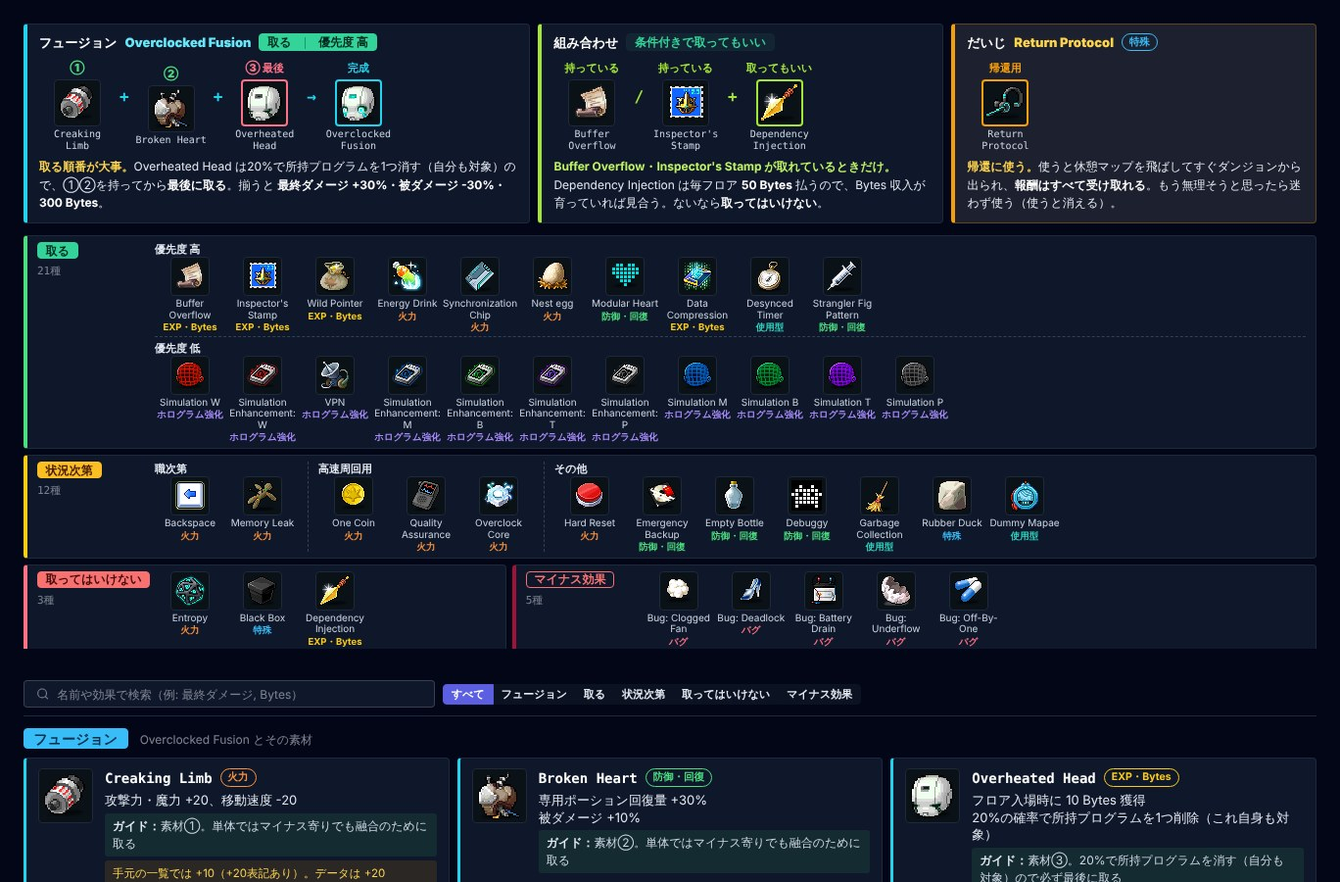
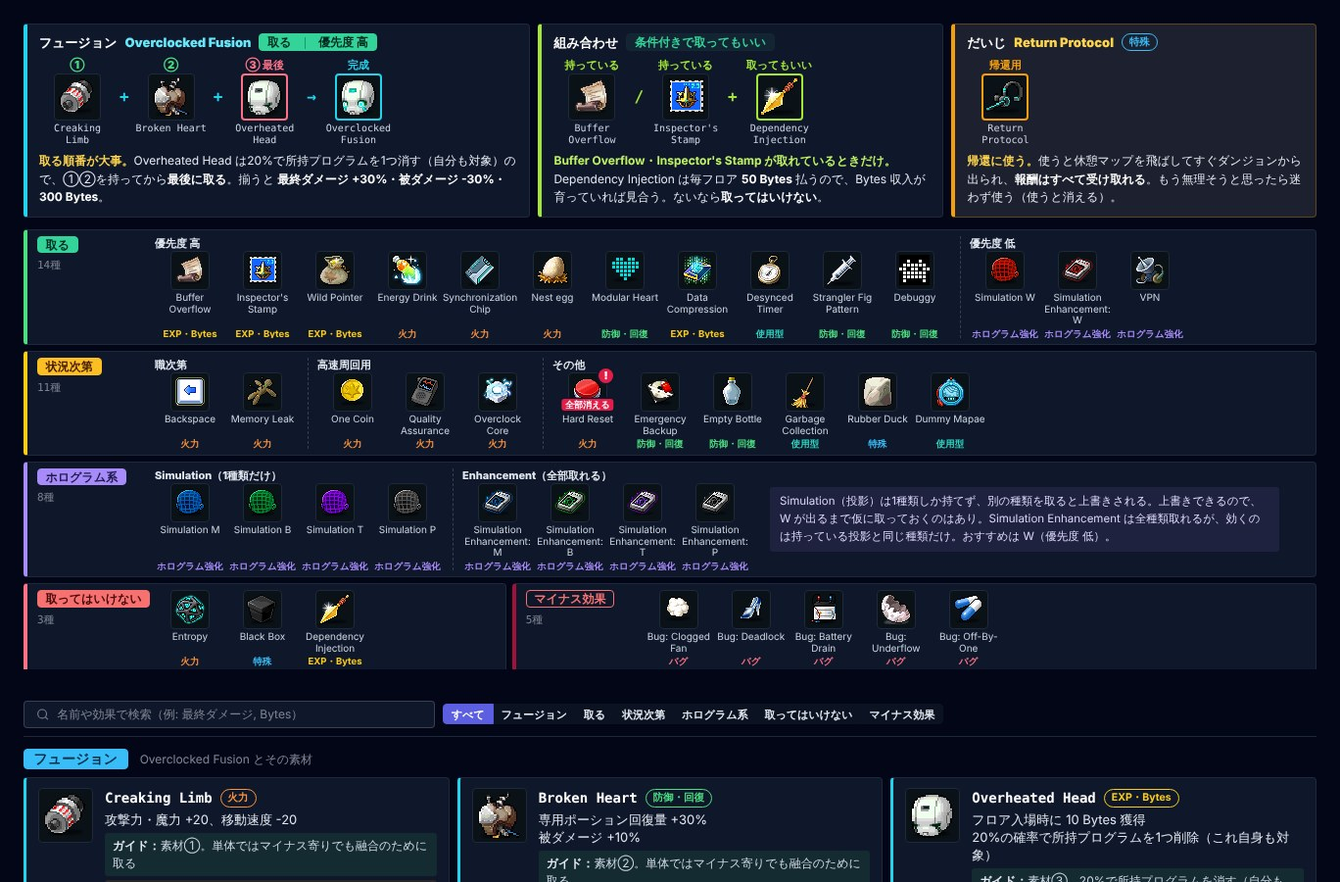
バトルシム: ホログラム系の段（注釈付き）を新設、名前の行数でアイコン・タグがずれないように
- 優先度 低には Simulation W・Enhancement: W・VPN だけ残し、他の Simulation M/B/T/P と Enhancement M/B/T/P は「ホログラム系」の段へ（Simulation は1種類だけ・Enhancement は全部取れる、の注釈付き、bi 指定）
- 上の3枠: 図の上端をそろえ名前は2行分の高さ、+ / → はアイコンの縦中央に
- 一覧: 系統タグを行の下端にそろえる。小区分の区切り線は折り返して行頭に来ても見えないように（アイコンの左端がずれない）
- Hard Reset の短い注意はアイコンの下端に重ねる（名前の位置がずれない）

Claude-Session: https://claude.ai/code/session_01VfuuungApVwhHvPPZNJUXm

diff --git a/public/libae_battlesim.js b/public/libae_battlesim.js
@@ -6,10 +6,11 @@
  */
 const libaeBattlesim = (() => {
     // v = 分類（2026-11-17 bi 指定）。fus フュージョン素材／key だいじ（Return Protocol、上に別枠）／
-    //     取る: hi 優先度 高・lo 優先度 低／状況次第: job 職次第・speed 高速周回用・other その他／avoid 取ってはいけない／bug マイナス効果
+    //     取る: hi 優先度 高・lo 優先度 低／状況次第: job 職次第・speed 高速周回用・other その他／
+    //     ホログラム系: holoS Simulation M/B/T/P（1種類だけ）・holoE Enhancement M/B/T/P（全部取れる）／avoid 取ってはいけない／bug マイナス効果
     // cat = 系統（atk 火力／def 防御・回復／holo ホログラム強化／res EXP・Bytes／util 特殊／use 使用型（使うと消費。Dummy Mapae・Garbage Collection・Desynced Timer だけ、bi 確認）／bug バグ）
     // gc = ガイドの評価、note = 元の一覧と値が違う項目の注記、tip = ゲーム内のツールチップ名、
-    // warn = 取る前に知っておきたい注意（一覧のアイコンに赤い ! と、カードに赤い注意書きを出す）、warnTag = 一覧のアイコンの下に出す短い注意
+    // warn = 取る前に知っておきたい注意（一覧のアイコンに赤い ! と、カードに赤い注意書きを出す）、warnTag = 一覧のアイコンの下端に重ねる短い注意
     const PROGRAMS = [
         {"v": "fus", "name": "Creaking Limb", "icon": "creaking-limb", "cat": "atk", "eff": ["攻撃力・魔力 +20、移動速度 -20"], "gc": "素材①。単体ではマイナス寄りでも融合のために取る", "note": "手元の一覧では +10（+20表記あり）。データは +20"},
         {"v": "fus", "name": "Broken Heart", "icon": "broken-heart", "cat": "def", "eff": ["専用ポーション回復量 +30%", "被ダメージ +10%"], "gc": "素材②。単体ではマイナス寄りでも融合のために取る"},
@@ -41,20 +42,20 @@ const libaeBattlesim = (() => {
         {"v": "avoid", "name": "Entropy", "icon": "entropy", "cat": "atk", "eff": ["最終ダメージ +50%", "フロア入場時、30%の確率で [Disorder] が1スタック", "[Disorder] が3スタックになるとダンジョンから自動退出"], "gc": "フロアに入るたび30%でスタックが溜まり、3つで強制退出。死亡扱いではないので復活系も効かない"},
         {"v": "avoid", "name": "Black Box", "icon": "black-box", "cat": "util", "eff": ["入手した瞬間にランダムなプログラムを3つ獲得し、所持プログラムからランダムに2つ削除（再入手すると再発動）"], "gc": "3つもらえる代わりに自分のプログラムが2つ消える。大事なものを消されるリスクが見合わない"},
         {"v": "avoid", "name": "Dependency Injection", "icon": "dependency-injection", "cat": "res", "eff": ["フロア入場時に 50 Bytes を消費し、次のどちらかを得る", "・アイテムドロップ率 +40%、獲得EXP +10%", "・獲得EXP +40%、アイテムドロップ率 +10%", "Bytesが足りないと発動しない"], "gc": "毎フロア50 Bytes払う系。Buffer Overflow・Inspector's Stamp を取っているときだけコストが見合うので取ってもいい（上の「組み合わせ」、ユーザー判断）。ガイドでは：序盤は厳禁。ルートルームで買い物するBytesが足りなくなる。収入が育った後半向け"},
-        {"v": "lo", "name": "Simulation Enhancement: M", "icon": "simulation-enhancement-m", "cat": "holo", "eff": ["投影魔法使いの [Hologram] Bolt Barrage ダメージ +10 / 20 / 30%"], "gc": "Jailbreak系（ホログラム投影の強化）。ガイドでは火力が低く優先度は最下位クラスだが、ユーザー判断で「取る（優先度 低）」に分類", "tip": "Type-M Jailbreak"},
-        {"v": "lo", "name": "Simulation Enhancement: B", "icon": "simulation-enhancement-b", "cat": "holo", "eff": ["投影弓使いの [Hologram] Ultimate Snipe ダメージ +10 / 20 / 30%"], "gc": "Jailbreak系。ガイドでは優先度最下位クラス。ユーザー判断で「取る（優先度 低）」に分類", "tip": "Type-B Jailbreak"},
-        {"v": "lo", "name": "Simulation Enhancement: T", "icon": "simulation-enhancement-t", "cat": "holo", "eff": ["投影盗賊の [Hologram] Shurrikane ダメージ +10 / 20 / 30%"], "gc": "Jailbreak系。ガイドでは優先度最下位クラス。ユーザー判断で「取る（優先度 低）」に分類", "tip": "Type-T Jailbreak"},
-        {"v": "lo", "name": "Simulation Enhancement: P", "icon": "simulation-enhancement-p", "cat": "holo", "eff": ["投影海賊の [Hologram] Rolling Rainbow ダメージ +10 / 20 / 30%"], "gc": "Jailbreak系。ガイドでは優先度最下位クラス。ユーザー判断で「取る（優先度 低）」に分類", "tip": "Type-P Jailbreak"},
+        {"v": "holoE", "name": "Simulation Enhancement: M", "icon": "simulation-enhancement-m", "cat": "holo", "eff": ["投影魔法使いの [Hologram] Bolt Barrage ダメージ +10 / 20 / 30%"], "gc": "Jailbreak系（ホログラム投影の強化）。ガイドでは火力が低く優先度は最下位クラス。Enhancement は全種類取れる。ユーザー判断で「ホログラム系」に分類", "tip": "Type-M Jailbreak"},
+        {"v": "holoE", "name": "Simulation Enhancement: B", "icon": "simulation-enhancement-b", "cat": "holo", "eff": ["投影弓使いの [Hologram] Ultimate Snipe ダメージ +10 / 20 / 30%"], "gc": "Jailbreak系。ガイドでは優先度最下位クラス。Enhancement は全種類取れる。ユーザー判断で「ホログラム系」に分類", "tip": "Type-B Jailbreak"},
+        {"v": "holoE", "name": "Simulation Enhancement: T", "icon": "simulation-enhancement-t", "cat": "holo", "eff": ["投影盗賊の [Hologram] Shurrikane ダメージ +10 / 20 / 30%"], "gc": "Jailbreak系。ガイドでは優先度最下位クラス。Enhancement は全種類取れる。ユーザー判断で「ホログラム系」に分類", "tip": "Type-T Jailbreak"},
+        {"v": "holoE", "name": "Simulation Enhancement: P", "icon": "simulation-enhancement-p", "cat": "holo", "eff": ["投影海賊の [Hologram] Rolling Rainbow ダメージ +10 / 20 / 30%"], "gc": "Jailbreak系。ガイドでは優先度最下位クラス。Enhancement は全種類取れる。ユーザー判断で「ホログラム系」に分類", "tip": "Type-P Jailbreak"},
         {"v": "bug", "name": "Bug: Clogged Fan", "icon": "bug-clogged-fan", "cat": "bug", "eff": ["最終ダメージ -5%"]},
         {"v": "bug", "name": "Bug: Deadlock", "icon": "bug-deadlock", "cat": "bug", "eff": ["移動速度 -20"], "tip": "Bug: Glass Slippers"},
         {"v": "bug", "name": "Bug: Battery Drain", "icon": "bug-battery-drain", "cat": "bug", "eff": ["獲得EXP -20%"], "tip": "Bug: Empty Battery"},
         {"v": "bug", "name": "Bug: Underflow", "icon": "bug-underflow", "cat": "bug", "eff": ["獲得Bytes -20%"], "tip": "Bug: Goose Egg"},
         {"v": "bug", "name": "Bug: Off-By-One", "icon": "bug-off-by-one", "cat": "bug", "eff": ["選べるプログラムの数 -1"], "tip": "Bug: Blue Pill"},
         {"v": "job", "name": "Memory Leak", "icon": "memory-leak", "cat": "atk", "eff": ["所持プログラム1つにつき最終ダメージ +1%（最大20）", "10秒ごとに最大HPの3%が減少"]},
-        {"v": "lo", "name": "Simulation M", "icon": "simulation-m", "cat": "holo", "eff": ["ホログラムスキルで攻撃時、投影された魔法使いが [Hologram] Bolt Barrage を使用し [Hologram] Format を発動", "投影の Format からも [Hologram] Defrag が発動可能"], "gc": "ユーザー判断で「取る（優先度 低）」に分類（ガイドでの言及なし）。Type系の投影は互いに上書きされるので全部は集められない", "tip": "Type-M Projection"},
-        {"v": "lo", "name": "Simulation B", "icon": "simulation-b", "cat": "holo", "eff": ["ホログラムスキルで攻撃時、投影された弓使いが [Hologram] Ultimate Snipe を使用し [Hologram] Format を発動", "投影の Format からも [Hologram] Defrag が発動可能"], "gc": "ユーザー判断で「取る（優先度 低）」に分類（ガイドでの言及なし）。Type系の投影は互いに上書きされるので全部は集められない", "tip": "Type-B Projection"},
-        {"v": "lo", "name": "Simulation T", "icon": "simulation-t", "cat": "holo", "eff": ["ホログラムスキルで攻撃時、投影された盗賊が [Hologram] Shurrikane を使用し [Hologram] Format を発動", "投影の Format からも [Hologram] Defrag が発動可能"], "gc": "ユーザー判断で「取る（優先度 低）」に分類（ガイドでの言及なし）。Type系の投影は互いに上書きされるので全部は集められない", "tip": "Type-T Projection"},
-        {"v": "lo", "name": "Simulation P", "icon": "simulation-p", "cat": "holo", "eff": ["ホログラムスキルで攻撃時、投影された海賊が [Hologram] Rolling Rainbow を使用し [Hologram] Format を発動", "投影の Format からも [Hologram] Defrag が発動可能"], "gc": "ユーザー判断で「取る（優先度 低）」に分類（ガイドでの言及なし）。Type系の投影は互いに上書きされるので全部は集められない", "tip": "Type-P Projection"},
+        {"v": "holoS", "name": "Simulation M", "icon": "simulation-m", "cat": "holo", "eff": ["ホログラムスキルで攻撃時、投影された魔法使いが [Hologram] Bolt Barrage を使用し [Hologram] Format を発動", "投影の Format からも [Hologram] Defrag が発動可能"], "gc": "Simulation 系（投影）は1種類しか持てず、別の種類を取ると上書きされる。ユーザー判断で「ホログラム系」に分類（ガイドでの言及なし）", "tip": "Type-M Projection"},
+        {"v": "holoS", "name": "Simulation B", "icon": "simulation-b", "cat": "holo", "eff": ["ホログラムスキルで攻撃時、投影された弓使いが [Hologram] Ultimate Snipe を使用し [Hologram] Format を発動", "投影の Format からも [Hologram] Defrag が発動可能"], "gc": "Simulation 系（投影）は1種類しか持てず、別の種類を取ると上書きされる。ユーザー判断で「ホログラム系」に分類（ガイドでの言及なし）", "tip": "Type-B Projection"},
+        {"v": "holoS", "name": "Simulation T", "icon": "simulation-t", "cat": "holo", "eff": ["ホログラムスキルで攻撃時、投影された盗賊が [Hologram] Shurrikane を使用し [Hologram] Format を発動", "投影の Format からも [Hologram] Defrag が発動可能"], "gc": "Simulation 系（投影）は1種類しか持てず、別の種類を取ると上書きされる。ユーザー判断で「ホログラム系」に分類（ガイドでの言及なし）", "tip": "Type-T Projection"},
+        {"v": "holoS", "name": "Simulation P", "icon": "simulation-p", "cat": "holo", "eff": ["ホログラムスキルで攻撃時、投影された海賊が [Hologram] Rolling Rainbow を使用し [Hologram] Format を発動", "投影の Format からも [Hologram] Defrag が発動可能"], "gc": "Simulation 系（投影）は1種類しか持てず、別の種類を取ると上書きされる。ユーザー判断で「ホログラム系」に分類（ガイドでの言及なし）", "tip": "Type-P Projection"},
         {"v": "other", "name": "Rubber Duck", "icon": "rubber-duck", "cat": "util", "eff": ["効果は一切なし"], "note": "手元の一覧ではコード枠にも同名あり。データ上はプログラム1種のみ"},
         {"v": "other", "name": "Dummy Mapae", "icon": "dummy-mapae", "cat": "use", "eff": ["命中した敵を5秒間スタン", "ボスを含め15体まで適用。使用すると消費"]},
     ];
@@ -67,6 +68,8 @@ const libaeBattlesim = (() => {
         { id: 'job', group: 'cond', sub: '職次第', label: '状況次第', badge: 'badge-warning badge-soft', border: '#facc15', meta: '職業によって強さが変わる' },
         { id: 'speed', group: 'cond', sub: '高速周回用', label: '状況次第', badge: 'badge-warning badge-soft', border: '#facc15', meta: '火力が足りていて速く回したいとき' },
         { id: 'other', group: 'cond', sub: 'その他', label: '状況次第', badge: 'badge-warning badge-soft', border: '#facc15', meta: '必要に応じて' },
+        { id: 'holoS', group: 'holo', sub: 'Simulation（1種類だけ）', label: 'ホログラム系', badge: 'badge-secondary badge-soft', border: '#a78bfa', meta: '投影は1種類しか持てない。別の種類を取ると上書き' },
+        { id: 'holoE', group: 'holo', sub: 'Enhancement（全部取れる）', label: 'ホログラム系', badge: 'badge-secondary badge-soft', border: '#a78bfa', meta: '強化は全種類取れるが、効くのは持っている投影の種類だけ' },
         { id: 'avoid', label: '取ってはいけない', badge: 'badge-error', border: '#fb7185', meta: '取ると損をするもの' },
         { id: 'bug', label: 'マイナス効果', badge: 'badge-error badge-outline', border: '#9f1239', meta: '効果がマイナスだけのバグ枠' },
     ];
@@ -76,6 +79,8 @@ const libaeBattlesim = (() => {
         { id: 'fus', label: 'フュージョン', vs: ['fus'] },
         { id: 'take', label: '取る', vs: ['hi', 'lo'] },
         { id: 'cond', label: '状況次第', vs: ['job', 'speed', 'other'] },
+        // W 以外のホログラム系は、仕組みの注釈を付けて別の段に（bi 指定）
+        { id: 'holo', label: 'ホログラム系', vs: ['holoS', 'holoE'], note: 'Simulation（投影）は1種類しか持てず、別の種類を取ると上書きされる。上書きできるので、W が出るまで仮に取っておくのはあり。Simulation Enhancement は全種類取れるが、効くのは持っている投影と同じ種類だけ。おすすめは W（優先度 低）。' },
         { id: 'avoid', label: '取ってはいけない', vs: ['avoid'] },
         { id: 'bug', label: 'マイナス効果', vs: ['bug'] },
     ];
@@ -131,7 +136,7 @@ const libaeBattlesim = (() => {
         </section>`).join('');
     }
     function tileHTML(p) {
-        return `<button type="button" class="bs-tile" data-bs-go="${esc(p.name)}" title="${esc(p.name)}${p.warn ? `（注意: ${esc(p.warn)}）` : ''} の説明へ"><span class="bs-tico">${img(p, 40)}${p.warn ? '<b class="bs-warnmark" aria-hidden="true">!</b>' : ''}</span><span>${esc(p.name)}</span><i class="bs-tcat" style="color:${CATS[p.cat].color}">${esc(CATS[p.cat].label)}</i>${p.warnTag ? `<i class="bs-tcat bs-twarn">${esc(p.warnTag)}</i>` : ''}</button>`;
+        return `<button type="button" class="bs-tile" data-bs-go="${esc(p.name)}" title="${esc(p.name)}${p.warn ? `（注意: ${esc(p.warn)}）` : ''} の説明へ"><span class="bs-tico">${img(p, 40)}${p.warn ? '<b class="bs-warnmark" aria-hidden="true">!</b>' : ''}${p.warnTag ? `<b class="bs-warntag">${esc(p.warnTag)}</b>` : ''}</span><span>${esc(p.name)}</span><i class="bs-tcat" style="color:${CATS[p.cat].color}">${esc(CATS[p.cat].label)}</i></button>`;
     }
     // 段ごとに、小区分（優先度 高・低／職次第・高速周回用・その他）を横に詰めて並べる。
     // 取ってはいけない・マイナス効果は数が少ないので、広い画面では2つを横に並べる
@@ -145,7 +150,7 @@ const libaeBattlesim = (() => {
                 <div class="bs-subs">${subs.map((v) => {
                     const ps = PROGRAMS.filter((p) => p.v === v.id);
                     return `<div class="bs-sub">${v.sub ? `<span class="bs-sublabel">${esc(v.sub)}</span>` : ''}<div class="bs-tiles">${ps.map(tileHTML).join('')}</div></div>`;
-                }).join('')}</div>
+                }).join('')}${g.note ? `<p class="bs-gnote">${esc(g.note)}</p>` : ''}</div>
             </div>`;
         });
         return h + '</section>';

diff --git a/public/style.css b/public/style.css
@@ -684,12 +684,13 @@ body {
 @media (min-width: 1280px) { .bs-top { grid-template-columns: minmax(0, 1.25fr) minmax(0, 1fr) minmax(0, .9fr); } }
 .bs-fusion { display: flex; flex-direction: column; gap: 6px; background: #0f172a; border: 1px solid #1e293b; border-left: 4px solid #22d3ee; border-radius: 4px; padding: 8px 12px 10px; }
 .bs-boxhead { display: flex; flex-wrap: wrap; align-items: center; gap: 4px 8px; font-size: 13px; font-weight: 900; }
-.bs-figs { display: flex; flex-wrap: wrap; align-items: center; gap: 4px; }
+/* 名前が1行・2行の図が並んでもアイコンの高さをそろえる（上端そろえ＋名前は2行分の高さ）。+ / → はアイコンの縦中央 */
+.bs-figs { display: flex; flex-wrap: wrap; align-items: flex-start; gap: 4px; }
 .bs-boxtext { font-size: 12px; line-height: 1.55; }
 .bs-fig { display: flex; flex-direction: column; align-items: center; gap: 2px; width: 78px; cursor: pointer; }
 .bs-fig .bs-ico { width: 48px; height: 48px; }
 .bs-fig:hover .bs-figname { color: #a5b4fc; }
-.bs-step { font-size: 11px; font-weight: 900; color: #4ade80; white-space: nowrap; }
+.bs-step { font-size: 11px; line-height: 14px; font-weight: 900; color: #4ade80; white-space: nowrap; }
 .bs-last .bs-step { color: #fb7185; }
 .bs-last .bs-ico { outline: 2px solid #fb7185; outline-offset: -2px; }
 .bs-done .bs-step { color: #22d3ee; }
@@ -700,19 +701,18 @@ body {
 .bs-key { background: color-mix(in oklab, #f59e0b 7%, #0f172a); border-color: color-mix(in oklab, #f59e0b 30%, transparent); border-left-color: #f59e0b; }
 .bs-key .bs-step { color: #f59e0b; }
 .bs-key .bs-ico { outline: 2px solid #f59e0b; outline-offset: -2px; }
-.bs-figname { font-family: var(--font-mono, ui-monospace, monospace); font-size: 10px; line-height: 1.2; text-align: center; color: #cbd5e1; }
-.bs-op { font-family: ui-monospace, monospace; font-size: 16px; font-weight: 700; color: #22d3ee; margin-bottom: 16px; }
+.bs-figname { font-family: var(--font-mono, ui-monospace, monospace); font-size: 10px; line-height: 12px; min-height: 24px; text-align: center; color: #cbd5e1; }
+.bs-op { font-family: ui-monospace, monospace; font-size: 16px; line-height: 20px; font-weight: 700; color: #22d3ee; margin-top: 30px; }
 .bs-board { display: grid; grid-template-columns: minmax(0, 1fr); gap: 6px; }
-@media (min-width: 1280px) { .bs-board { grid-template-columns: minmax(0, 3fr) minmax(0, 5fr); } .bs-brow-take, .bs-brow-cond { grid-column: 1 / -1; } }
+@media (min-width: 1280px) { .bs-board { grid-template-columns: minmax(0, 3fr) minmax(0, 5fr); } .bs-brow-take, .bs-brow-cond, .bs-brow-holo { grid-column: 1 / -1; } }
 .bs-brow { display: grid; grid-template-columns: 112px minmax(0, 1fr); gap: 8px; align-items: start; background: #0f172a; border: 1px solid #1e293b; border-left: 4px solid #475569; border-radius: 4px; padding: 6px 10px; }
 .bs-blabel { display: flex; flex-direction: column; align-items: flex-start; gap: 3px; }
-.bs-subs { display: flex; flex-wrap: wrap; gap: 4px 0; min-width: 0; }
-.bs-sub { display: flex; flex-direction: column; gap: 1px; padding: 0 10px; border-left: 1px dashed #334155; }
-.bs-sub:first-child { padding-left: 0; border-left: 0; }
-/* 取るの 優先度 高・低 はどちらも1行ずつになるので、縦に積んで区切りは横線に */
-.bs-brow-take .bs-subs { flex-direction: column; gap: 4px; }
-.bs-brow-take .bs-sub { padding: 0; border-left: 0; }
-.bs-brow-take .bs-sub + .bs-sub { border-top: 1px dashed #334155; padding-top: 4px; }
+/* 小区分の区切り線は左の余白に置き、折り返して行頭に来たときは .bs-subs の外にはみ出して見えない（アイコンの左端がずれない） */
+.bs-subs { display: flex; flex-wrap: wrap; gap: 4px 20px; min-width: 0; overflow: hidden; }
+.bs-sub { position: relative; display: flex; flex-direction: column; gap: 1px; }
+.bs-sub::before { content: ''; position: absolute; left: -10px; top: 0; bottom: 0; border-left: 1px dashed #334155; }
+.bs-gnote { flex: 1 1 260px; max-width: 520px; align-self: center; font-size: 11.5px; line-height: 1.55; color: #ddd6fe; padding: 6px 10px; border-radius: 3px; background: rgba(167, 139, 250, .1); }
+.bs-v-holoS, .bs-v-holoE { border-left-color: #a78bfa; }
 .bs-sublabel { font-size: 11px; font-weight: 800; color: #e2e8f0; line-height: 1.3; }
 .bs-tiles { display: flex; flex-wrap: wrap; gap: 4px 2px; }
 .bs-tile { display: flex; flex-direction: column; align-items: center; gap: 2px; width: 72px; font-size: 10px; line-height: 1.15; text-align: center; color: #cbd5e1; cursor: pointer; }
@@ -722,7 +722,7 @@ body {
 @media (max-width: 640px) {
     .bs-brow { grid-template-columns: minmax(0, 1fr); }
     .bs-blabel { flex-direction: row; align-items: center; gap: 8px; }
-    .bs-sub { padding: 0; border-left: 0; width: 100%; }
+    .bs-sub { width: 100%; }
 }
 .bs-toolbar { position: sticky; top: 0; z-index: 5; display: flex; flex-wrap: wrap; align-items: center; gap: 8px; padding: 8px 0; background: #020617; border-bottom: 1px solid #1e293b; margin-top: 8px; box-shadow: 0 -24px 0 #020617; }
 .bs-grid { display: grid; grid-template-columns: repeat(auto-fill, minmax(min(100%, 420px), 1fr)); gap: 8px; }
@@ -737,7 +737,10 @@ body {
 .bs-v-fus .bs-gc, .bs-v-key .bs-gc, .bs-v-hi .bs-gc, .bs-v-lo .bs-gc { background: rgba(74, 222, 128, .1); }
 .bs-v-job .bs-gc, .bs-v-speed .bs-gc, .bs-v-other .bs-gc { background: rgba(250, 204, 21, .1); }
 .bs-v-avoid .bs-gc { background: rgba(251, 113, 133, .1); }
-.bs-twarn { color: #fb7185; margin-top: 1px; }
+/* 名前が1〜3行で違っても、系統タグはその行のいちばん下にそろえる */
+.bs-tile .bs-tcat { margin-top: auto; padding-top: 1px; }
+.bs-sub > .bs-tiles { flex: 1 1 auto; }
+.bs-warntag { position: absolute; left: 50%; bottom: 1px; transform: translateX(-50%); white-space: nowrap; font-size: 9px; font-weight: 900; line-height: 12px; padding: 0 4px; border-radius: 3px; background: #e11d48; color: #fff; box-shadow: 0 0 0 1.5px #0f172a; }
 .bs-tico { position: relative; display: inline-flex; }
 .bs-warnmark { position: absolute; top: -4px; right: -6px; width: 15px; height: 15px; border-radius: 999px; background: #e11d48; color: #fff; font-size: 11px; font-weight: 900; line-height: 15px; text-align: center; box-shadow: 0 0 0 2px #0f172a; }
 .bs-warn { font-size: 12px; line-height: 1.5; padding: 4px 8px; border-radius: 3px; background: rgba(225, 29, 72, .14); color: #fda4af; }

diff --git a/public/guide.js b/public/guide.js
@@ -31,7 +31,7 @@ const guide = {
                       '各ピースには判定が付きます。「自前で採用」（藍）は自前のみの組み合わせ、「全部で採用」（緑）は全部の組み合わせに入っているピースで、両方に入っていれば2つ並びます。組み合わせの見出しも同じ色です。「候補」は組み合わせで足りないスキルを含むので取っておくピースです。目標やピースを変えると付け直します。',
                       '「ジュエルを一括で」の Lv を押すと、装着中のジュエルを全部その Lv にします（空きソケットはそのまま）。',
                       '「ジュエル強化」で、Lv.5 までに要る素材の残りを、全体・色別・装備ごとに見られます。素材は同じ色のジュエルだけ使え、足りない分を Dust で買う量（カラー 500、プリズマティック 3,000）も出ます。',
-                      '「バトルシム」は、ダンジョン Battlesim で手に入るプログラム全46種の図鑑です。上にフュージョン（Overclocked Fusion）の取る順番、条件付きで取ってもいい組み合わせ（Buffer Overflow・Inspector's Stamp ＋ Dependency Injection）、帰還に使う Return Protocol、分類（取る＝優先度 高・低／状況次第＝職次第・高速周回用・その他／取ってはいけない／マイナス効果）ごとのアイコン一覧があり、アイコンの下は系統（火力・ホログラム強化・使用型など）です。アイコンを押すとそのプログラムの説明に移ります。下の欄で名前や効果を検索したり、分類で絞り込んだりできます。分類は Bijyon の判断、各カードのガイド欄は Shapaz さんのガイド動画、アイコンと効果は GMS クライアントから抽出したデータです。',
+                      '「バトルシム」は、ダンジョン Battlesim で手に入るプログラム全46種の図鑑です。上にフュージョン（Overclocked Fusion）の取る順番、条件付きで取ってもいい組み合わせ（Buffer Overflow・Inspector's Stamp ＋ Dependency Injection）、帰還に使う Return Protocol、分類（取る＝優先度 高・低／状況次第＝職次第・高速周回用・その他／ホログラム系／取ってはいけない／マイナス効果）ごとのアイコン一覧があり、アイコンの下は系統（火力・ホログラム強化・使用型など）で、赤い ! は取る前の注意です。アイコンを押すとそのプログラムの説明に移ります。下の欄で名前や効果を検索したり、分類で絞り込んだりできます。分類は Bijyon の判断、各カードのガイド欄は Shapaz さんのガイド動画、アイコンと効果は GMS クライアントから抽出したデータです。',
                       '強化コストが変わったら、「ジュエル強化」の下の「ジュエル設定」で直せます。「資料」にスキル・ジュエルの仕様と出典をまとめています。'],
               shots: [['14-libae-gear', '装備管理。左が6部位のスキルラインとジュエル（ラインの色は目標に対する判定）、右がスキルの合計 Lv と目標ライン'],
                       ['18-libae-pieces', '所有ピース。左が部位ごとの手持ちのピース、右がセットソルバーの組み合わせと、その組み合わせでの目標ライン'],
